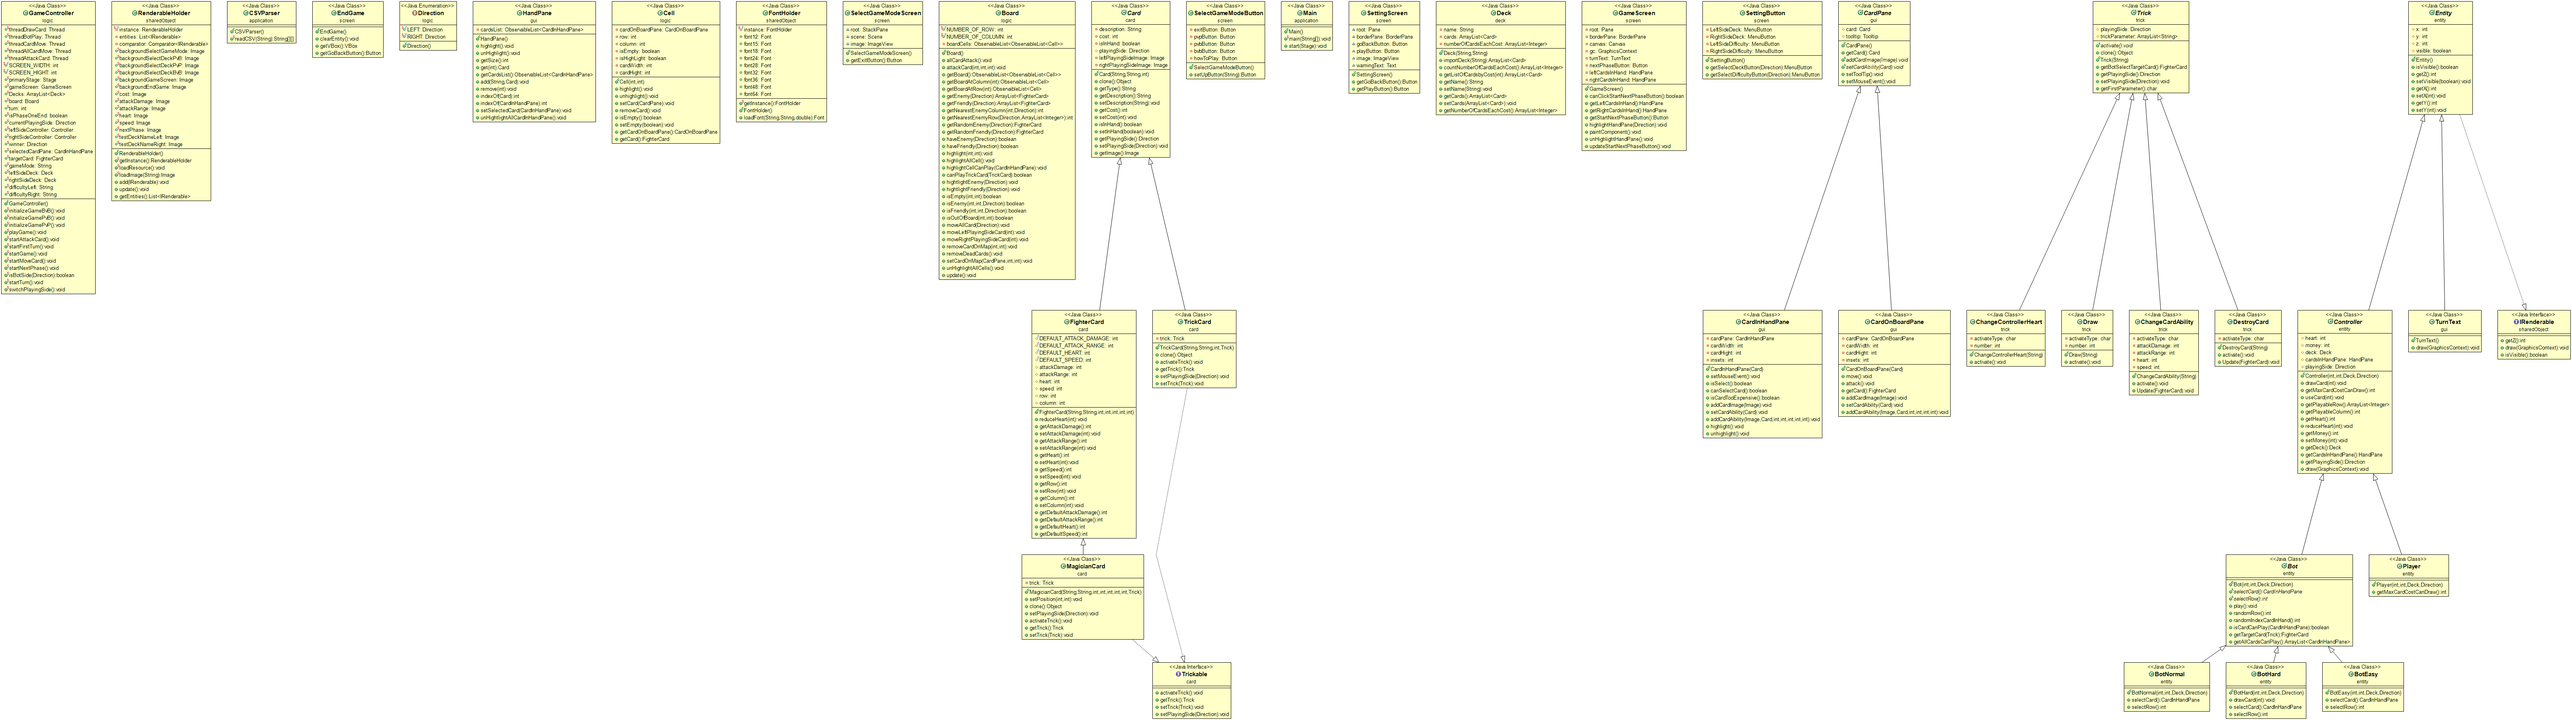
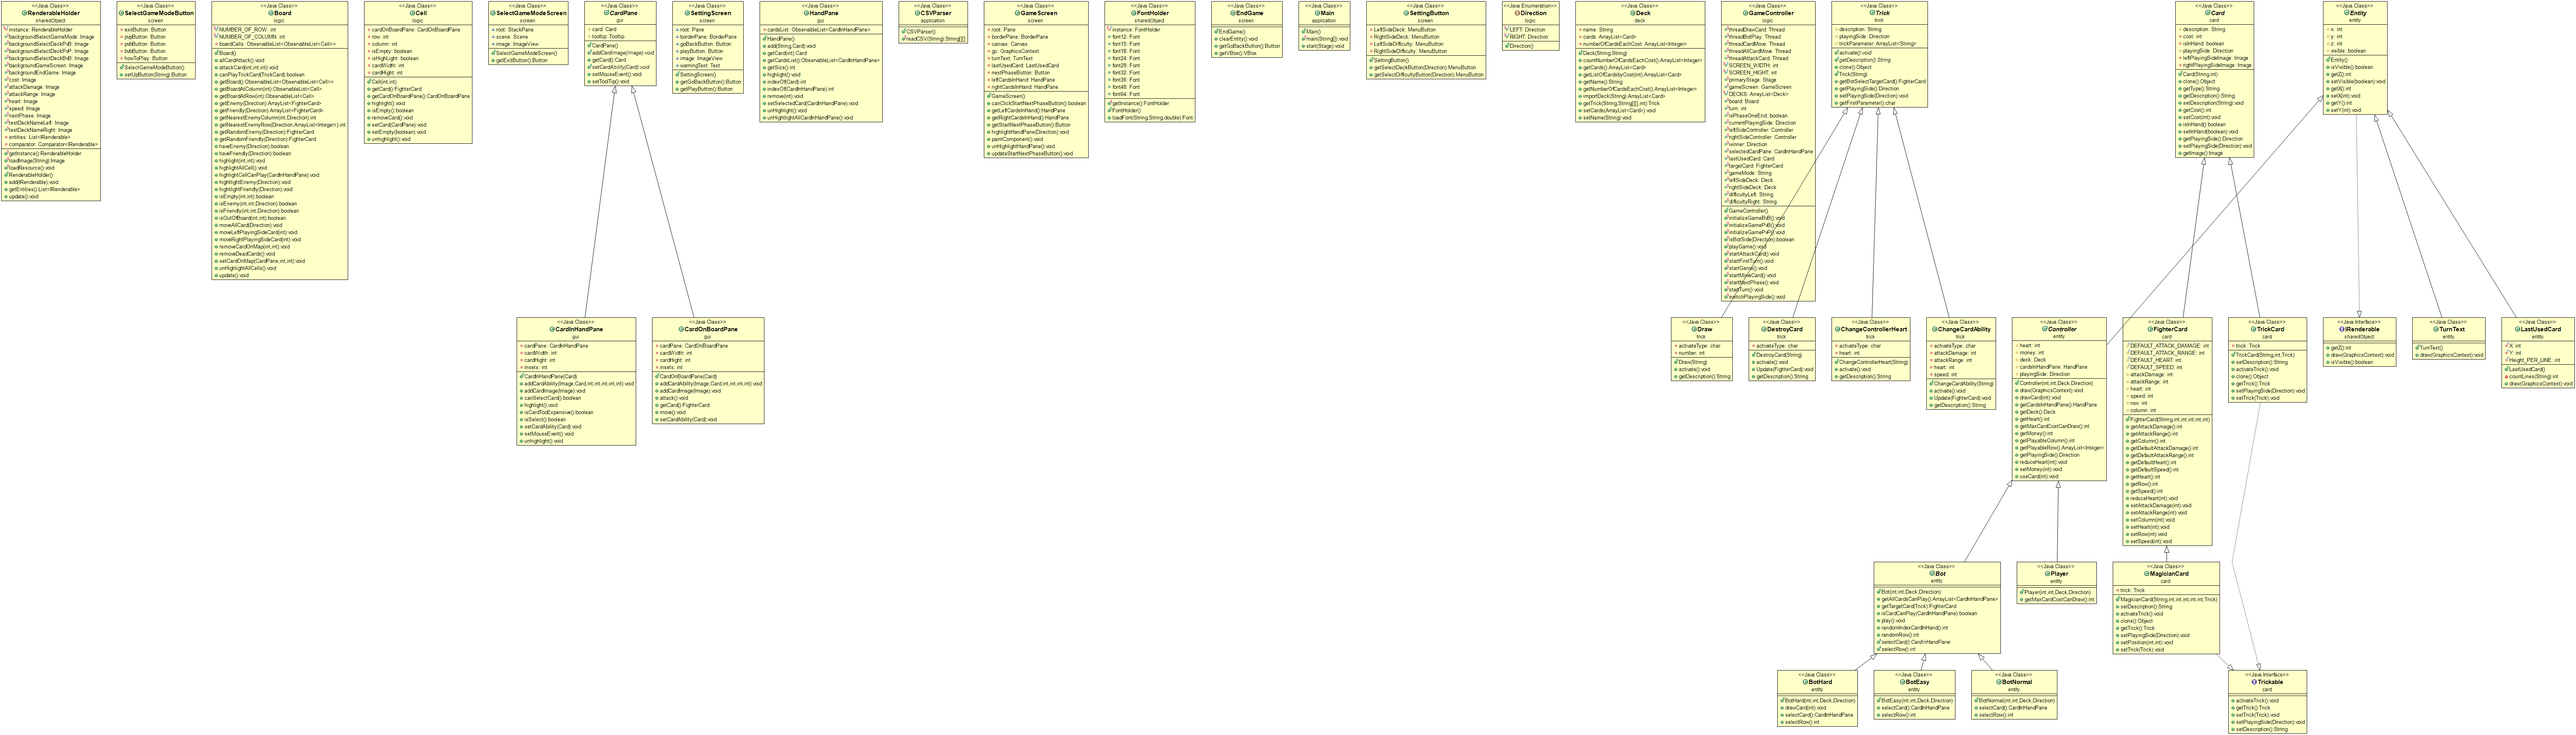
Create lastUsedCard GUI

diff --git a/src/entity/LastUsedCard.java b/src/entity/LastUsedCard.java
@@ -1,0 +1,48 @@
+package entity;
+
+import card.Card;
+import javafx.scene.canvas.GraphicsContext;
+import javafx.scene.paint.Color;
+import javafx.scene.shape.Rectangle;
+import javafx.scene.text.Text;
+import logic.GameController;
+import sharedObject.FontHolder;
+import sharedObject.RenderableHolder;
+
+public class LastUsedCard extends Entity {
+	private final int X = 840;
+	private final int Y = 5;
+	private final int Height_PER_LINE = 13;
+
+	public LastUsedCard() {
+		RenderableHolder.getInstance().add(this);
+		this.setVisible(true);
+	}
+
+	private int countLines(String str) {
+		if (str.equals("")) {
+			return 0;
+		}
+		String[] lines = str.split("\r\n|\r|\n");
+		return lines.length;
+	}
+
+	@Override
+	public void draw(GraphicsContext gc) {
+		if (GameController.lastUsedCard != null) {
+			Card card = GameController.lastUsedCard;
+			int line = countLines(card.getDescription());
+			gc.setFont(FontHolder.getInstance().font15);
+			gc.setFill(Color.CRIMSON);
+			gc.fillText("Recently card", X - 85, Y + 15);
+			gc.setFill(Color.OLDLACE);
+			gc.fillRoundRect(X, Y, 120, 20 + Height_PER_LINE * line, 5, 5);
+			gc.setStroke(Color.BLACK);
+			gc.strokeRoundRect(X, Y, 120, 20 + Height_PER_LINE * line, 5, 5);
+			gc.setFill(Color.BLACK);
+			gc.setFont(FontHolder.getInstance().font12);
+			gc.fillText("- " + card.getType() + " -\n" + card.getDescription(), X + 10, Y + 13);
+		}
+	}
+
+}

diff --git a/src/screen/GameScreen.java b/src/screen/GameScreen.java
@@ -1,8 +1,9 @@
 package screen;
 
 import entity.Bot;
+import entity.LastUsedCard;
+import entity.TurnText;
 import gui.HandPane;
-import gui.TurnText;
 import javafx.animation.AnimationTimer;
 import javafx.geometry.Insets;
 import javafx.scene.Scene;
@@ -34,6 +35,7 @@ public class GameScreen {
 	private Canvas canvas;
 	private GraphicsContext gc;
 	private TurnText turnText;
+	private LastUsedCard lastUsedCard;
 	private Button nextPhaseButton;
 	private HandPane leftCardsInHand;
 	private HandPane rightCardsInHand;
@@ -44,6 +46,7 @@ public class GameScreen {
 		nextPhaseButton = getStartNextPhaseButton();
 		borderPane = new BorderPane();
 		turnText = new TurnText();
+		lastUsedCard = new LastUsedCard();
 		borderPane.setPrefSize(GameController.SCREEN_WIDTH, GameController.SCREEN_HIGHT);
 		leftCardsInHand = GameController.leftSideController.getCardsInHandPane();
 		rightCardsInHand = GameController.rightSideController.getCardsInHandPane();

diff --git a/src/entity/Controller.java b/src/entity/Controller.java
@@ -187,9 +187,10 @@ public abstract class Controller extends Entity {
 	}
 
 	public void useCard(int index) {
-		money -= cardsInHandPane.get(index).getCost();
-		if (cardsInHandPane.get(index) instanceof Trickable) {
-			((Trickable) cardsInHandPane.get(index)).activateTrick();
+		GameController.lastUsedCard = cardsInHandPane.getCard(index);
+		money -= cardsInHandPane.getCard(index).getCost();
+		if (cardsInHandPane.getCard(index) instanceof Trickable) {
+			((Trickable) cardsInHandPane.getCard(index)).activateTrick();
 		}
 		cardsInHandPane.remove(index);
 	}

diff --git a/src/logic/GameController.java b/src/logic/GameController.java
@@ -2,7 +2,7 @@ package logic;
 
 import java.util.ArrayList;
 import java.util.Random;
-
+import card.Card;
 import card.FighterCard;
 import deck.Deck;
 import entity.Bot;
@@ -40,6 +40,7 @@ public class GameController {
 
 	public static Direction winner;
 	public static CardInHandPane selectedCardPane;
+	public static Card lastUsedCard;
 	public static FighterCard targetCard;
 
 	public static String gameMode;

diff --git a/src/deck/Deck.java b/src/deck/Deck.java
@@ -102,7 +102,7 @@ public class Deck {
 		return deck;
 	}
 
-	public Trick getTrick(String trick, String[][] deckData, int row) { //get Trick by name of trick
+	public Trick getTrick(String trick, String[][] deckData, int row) { // get Trick by name of trick
 		switch (trick) {
 		case "ChangeCardAbility":
 			return new ChangeCardAbility(deckData[row][7]);

diff --git a/src/gui/HandPane.java b/src/gui/HandPane.java
@@ -35,7 +35,7 @@ public class HandPane extends VBox {
 		cardsList.add(cardPane);
 	}
 	
-	public Card get(int index) {
+	public Card getCard(int index) {
 		return cardsList.get(index).getCard();
 	}
 

diff --git a/src/entity/TurnText.java b/src/entity/TurnText.java
@@ -1,6 +1,5 @@
-package gui;
+package entity;
 
-import entity.Entity;
 import javafx.scene.canvas.GraphicsContext;
 import javafx.scene.paint.Color;
 import logic.GameController;
